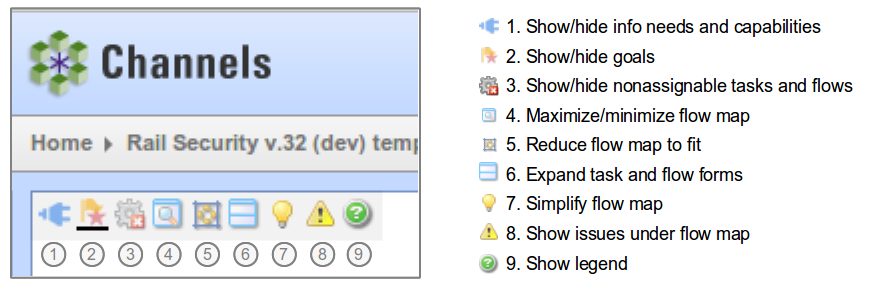
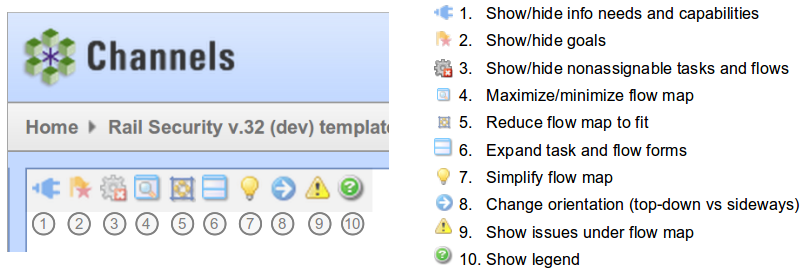
Added orientation view control to flow. Allows switching between top-down and left-right.
git-svn-id: https://wush.net/svn/mindalliance@5834 baad322d-9929-0410-88f0-f92e8ff3e1bd

diff --git a/channels/trunk/src/main/java/com/mindalliance/channels/pages/components/segment/MaximizedFlowPanel.html b/channels/trunk/src/main/java/com/mindalliance/channels/pages/components/segment/MaximizedFlowPanel.html
@@ -8,12 +8,18 @@
 <body>
 <wicket:panel>
     <div wicket:id="controls" class="zoom">
-        <span wicket:id="showConnectors"><img wicket:id="show_connectors_icon" src="images/show_connectors.png" alt="Show connectors"/></span>
-        <span wicket:id="showGoals"><img wicket:id="show_goals_icon" src="images/show_goals.png" alt="Show goals"/></span>
-        <span wicket:id="hideNoop"><img wicket:id="hide_noop_icon" src="images/hide_noop.png" alt="Hide not realizable"/></span>
+        <span wicket:id="showConnectors"><img wicket:id="show_connectors_icon" src="images/show_connectors.png"
+                                              alt="Show connectors"/></span>
+        <span wicket:id="showGoals"><img wicket:id="show_goals_icon" src="images/show_goals.png"
+                                         alt="Show goals"/></span>
+        <span wicket:id="hideNoop"><img wicket:id="hide_noop_icon" src="images/hide_noop.png"
+                                        alt="Hide not realizable"/></span>
         <span id="flow-minimized" wicket:id="minimized"><img src="images/fullscreen_on.png" alt="Minimize"/></span>
-        <span id="flow-fit" wicket:id="fit"><img wicket:id="fit_icon" src="images/fit.png"  alt="Reduce to fit"/></span>
-        <span wicket:id="simplified"><img wicket:id="simplify_icon" src="images/simplify.png" title = "Simplify (click again to restore)" alt="Simplify"/></span>
+        <span id="flow-fit" wicket:id="fit"><img wicket:id="fit_icon" src="images/fit.png" alt="Reduce to fit"/></span>
+        <span wicket:id="simplified"><img wicket:id="simplify_icon" src="images/simplify.png"
+                                          title="Simplify (click again to restore)" alt="Simplify"/></span>
+        <span wicket:id="orientation"><img wicket:id="orientation_icon" src="images/left_right.png"
+                                               title="Display left to right or top to bottom" alt="Orientation"/></span>
         <span id="legend" wicket:id="legend"><img src="images/help_small.png" alt="Flows legend"/></span>
     </div>
     <div id="maximized-graph">

diff --git a/channels/trunk/src/main/java/com/mindalliance/channels/pages/components/segment/SegmentPanel.html b/channels/trunk/src/main/java/com/mindalliance/channels/pages/components/segment/SegmentPanel.html
@@ -26,7 +26,9 @@
                                              title="Minimize (click again to restore)" alt="Minimize"/></span>
             <span wicket:id="simplified"><img wicket:id="simplify_icon" src="images/simplify.png"
                                               title="Simplify (click again to restore)" alt="Simplify"/></span>
-            <span wicket:id="issues"><img wicket:id="issues_icon" src="images/show_issues.png"
+            <span wicket:id="orientation"><img wicket:id="orientation_icon" src="images/left_right.png"
+                                              title="Display left to right or top to bottom" alt="Orientation"/></span>
+             <span wicket:id="issues"><img wicket:id="issues_icon" src="images/show_issues.png"
                                           title="Show issues (click again to hide)" alt="Issues"/></span>
             <span wicket:id="legend"><img src="images/help_small.png" alt="Legend"/></span>
         </div>

diff --git a/channels/trunk/src/main/java/com/mindalliance/channels/pages/components/segment/AbstractFlowMapContainingPanel.java b/channels/trunk/src/main/java/com/mindalliance/channels/pages/components/segment/AbstractFlowMapContainingPanel.java
@@ -52,6 +52,11 @@ public abstract class AbstractFlowMapContainingPanel extends AbstractCommandable
     private boolean showingConnectors = false;
 
     /**
+     * Whether the orientation is top-bottom
+     */
+    private boolean topBottom = true; // default orientation is top-to-bottom
+
+    /**
      * Whether to simplify the flow map.
      */
     private boolean simplified = false;
@@ -128,6 +133,14 @@ public abstract class AbstractFlowMapContainingPanel extends AbstractCommandable
         this.simplified = simplified;
     }
 
+    public boolean isTopBottom() {
+        return topBottom;
+    }
+
+    public void setTopBottom( boolean topBottom ) {
+        this.topBottom = topBottom;
+    }
+
     public void setFlow( Flow flow ) {
         this.flow = flow;
     }
@@ -147,7 +160,7 @@ public abstract class AbstractFlowMapContainingPanel extends AbstractCommandable
 
     protected void addFlowDiagram() {
         double[] dim = flowDiagramDim[0] <= 0.0 || flowDiagramDim[1] <= 0.0 ? null : flowDiagramDim;
-        Settings settings = new Settings( getFlowMapDomId(), null, dim, true, true );
+        Settings settings = new Settings( getFlowMapDomId(), getOrientation() , dim, true, true );
 
         flowMapDiagramPanel =
                 new FlowMapDiagramPanel( "flow-map",
@@ -161,6 +174,10 @@ public abstract class AbstractFlowMapContainingPanel extends AbstractCommandable
         flowMapDiagramPanel.setFlow( findExpandedFlow() );
         flowMapDiagramPanel.setOutputMarkupId( true );
         addOrReplace( flowMapDiagramPanel );
+    }
+
+    private String getOrientation() {
+        return topBottom ? "TB" : "LR";
     }
 
     private Flow findExpandedFlow() {
@@ -182,6 +199,7 @@ public abstract class AbstractFlowMapContainingPanel extends AbstractCommandable
         addShowGoalsControl();
         addShowConnectorsControl();
         addHideConceptualControl();
+        addOrientationControl();
         addShowLegendControl();
     }
 
@@ -252,6 +270,35 @@ public abstract class AbstractFlowMapContainingPanel extends AbstractCommandable
                         : "Show info needs and capabilities" ) );
         showConnectors.add( icon );
     }
+
+    private void addOrientationControl() {
+        WebMarkupContainer orientationControl = new WebMarkupContainer( "orientation" );
+        orientationControl.add( new AjaxEventBehavior( "onclick" ) {
+            @Override
+            protected void onEvent( AjaxRequestTarget target ) {
+                topBottom = !topBottom;
+                addFlowDiagram();
+                target.add( flowMapDiagramPanel );
+                addFlowMapViewingControls();
+                target.add( controlsContainer );
+            }
+        } );
+        controlsContainer.add( orientationControl );
+        // icon
+        WebMarkupContainer icon = new WebMarkupContainer( "orientation_icon" );
+        icon.add( new AttributeModifier(
+                "src",
+                new Model<String>( topBottom
+                        ? "images/left_right.png"
+                        : "images/top_bottom.png" ) ) );
+        addTipTitle(
+                icon,
+                new Model<String>( topBottom
+                        ? "Display left to right"
+                        : "Display top to bottom" ) );
+        orientationControl.add( icon );
+    }
+
 
     private void addShowGoalsControl() {
         WebMarkupContainer showGoals = new WebMarkupContainer( "showGoals" );

diff --git a/channels/trunk/src/main/java/com/mindalliance/channels/pages/components/diagrams/FlowMapDiagramPanel.java b/channels/trunk/src/main/java/com/mindalliance/channels/pages/components/diagrams/FlowMapDiagramPanel.java
@@ -219,6 +219,7 @@ public class FlowMapDiagramPanel extends AbstractDiagramPanel {
                 props += isShowingConnectors() ? " showConnectors" : "";
                 props += isHidingNoop() ? " hideNoop" : "";
                 props += isSimplified() ? " simplify" : "";
+                props += isTopBottom() ? "" : " leftRight";
                 change.setProperty( props );
                 change.setScript( js );
                 this.update( target, change );
@@ -252,12 +253,17 @@ public class FlowMapDiagramPanel extends AbstractDiagramPanel {
             props += isShowingConnectors() ? " showConnectors" : "";
             props += isHidingNoop() ? " hideNoop" : "";
             props += isSimplified() ? " simplify" : "";
+            props += isTopBottom() ? "" : " leftRight";
             change.setProperty( props );
             change.setScript( js );
             update( target, change );
         } catch ( NotFoundException e ) {
             LOG.warn( "Selected flow not found at id " + id );
         }
+    }
+
+    private boolean isTopBottom() {
+        return getOrientation().equals( "TB" );
     }
 
     private Segment getSegment() {

diff --git a/channels/trunk/src/main/java/com/mindalliance/channels/pages/PlanPage.java b/channels/trunk/src/main/java/com/mindalliance/channels/pages/PlanPage.java
@@ -945,11 +945,13 @@ public final class PlanPage extends AbstractChannelsWebPage {
             boolean showConnectors;
             boolean hideNoop;
             boolean simplify;
+            boolean topBottom;
             String props = change.getProperty();
             showGoals = props != null && props.contains( "showGoals" );
             showConnectors = props != null && props.contains( "showConnectors" );
             hideNoop = props != null && props.contains( "hideNoop" );
             simplify = props != null && props.contains( "simplify" );
+            topBottom = props == null || !props.contains( "leftRight" );
             maximizedFlowPanel = new MaximizedFlowPanel(
                     "maximized-flow",
                     new PropertyModel<Segment>( this, "segment" ),
@@ -958,6 +960,7 @@ public final class PlanPage extends AbstractChannelsWebPage {
                     showConnectors,
                     hideNoop,
                     simplify,
+                    topBottom,
                     getExpansions() );
         } else {
             maximizedFlowPanel = new Label( "maximized-flow" );

diff --git a/channels/trunk/src/main/java/com/mindalliance/channels/pages/components/segment/MaximizedFlowPanel.java b/channels/trunk/src/main/java/com/mindalliance/channels/pages/components/segment/MaximizedFlowPanel.java
@@ -28,12 +28,14 @@ public class MaximizedFlowPanel extends AbstractFlowMapContainingPanel {
             boolean showingConnectors,
             boolean hidingNoop,
             boolean simplified,
+            boolean topBottom,
             Set<Long> expansions ) {
         super( id, segmentModel, partModel, expansions );
         setShowingGoals( showingGoals );
         setShowingConnectors( showingConnectors );
         setHidingNoop( hidingNoop );
         setSimplified( simplified );
+        setTopBottom( topBottom );
         init();
     }
 
@@ -63,6 +65,7 @@ public class MaximizedFlowPanel extends AbstractFlowMapContainingPanel {
                 props += isShowingConnectors() ? " showConnectors" : "";
                 props += isHidingNoop() ? " hideNoop" : "";
                 props += isSimplified() ? " simplify" : "";
+                props += isTopBottom() ? "" : " leftRight";
                 update( target, new Change(
                         Change.Type.Minimized,
                         getSegment(),

diff --git a/channels/trunk/src/main/java/com/mindalliance/channels/pages/components/segment/SegmentPanel.java b/channels/trunk/src/main/java/com/mindalliance/channels/pages/components/segment/SegmentPanel.java
@@ -416,6 +416,7 @@ public class SegmentPanel extends AbstractFlowMapContainingPanel {
                 props += isShowingConnectors() ? " showConnectors" : "";
                 props += isHidingNoop() ? " hideNoop" : "";
                 props += isSimplified() ? " simplify" : "";
+                props += isTopBottom() ? "" : " leftRight";
                 maximized = !maximized;
                 addFlowMapViewingControls();
                 target.add( getControlsContainer() );
@@ -746,6 +747,7 @@ public class SegmentPanel extends AbstractFlowMapContainingPanel {
             setShowingConnectors( property.contains( "showConnectors" ) );
             setHidingNoop( property.contains( "hideNoop" ) );
             setSimplified( property.contains( "simplify" ) );
+            setTopBottom( !property.contains( "leftRight" ) );
         }
         addFlowDiagram();
         setPartOrFlowUpdated( false );

diff --git a/channels/trunk/src/main/java/com/mindalliance/channels/pages/components/diagrams/AbstractDiagramPanel.java b/channels/trunk/src/main/java/com/mindalliance/channels/pages/components/diagrams/AbstractDiagramPanel.java
@@ -99,6 +99,15 @@ public abstract class AbstractDiagramPanel extends AbstractCommandablePanel {
         return settings.getOrientation();
     }
 
+    public void setOrientationLeftRight() {
+        settings.setOrientationLeftRight();
+    }
+
+    public void setOrientationTopBottom() {
+        settings.setOrientationTopBottom();
+    }
+
+
     /**
      * Initialize.
      */

diff --git a/channels/trunk/src/main/java/com/mindalliance/channels/pages/components/diagrams/Settings.java b/channels/trunk/src/main/java/com/mindalliance/channels/pages/components/diagrams/Settings.java
@@ -55,4 +55,12 @@ public class Settings implements Serializable {
     public boolean isUsingMap() {
         return usingMap;
     }
+
+    public void setOrientationLeftRight() {
+        orientation = "LR";
+    }
+
+    public void setOrientationTopBottom() {
+        orientation = "TB";
+    }
 }
